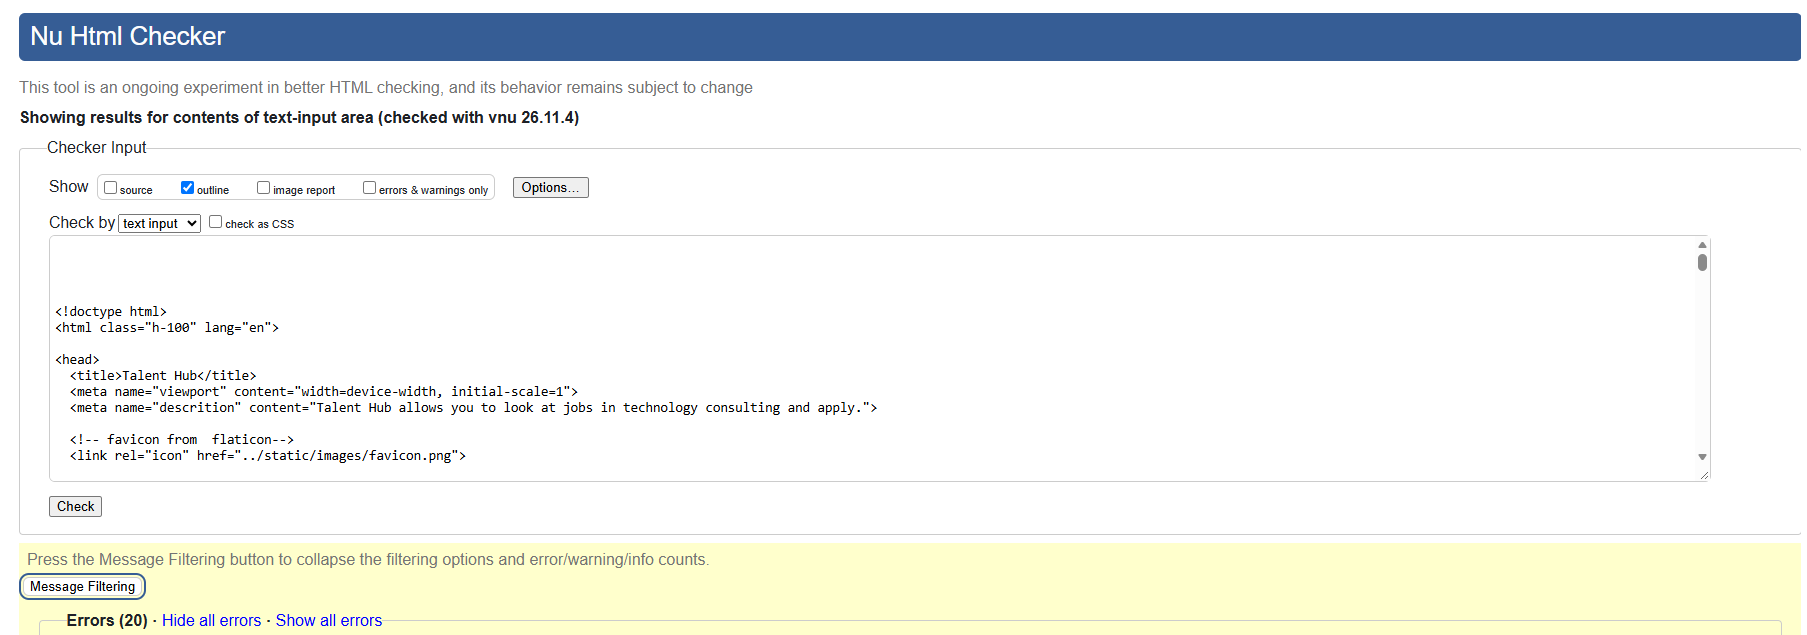
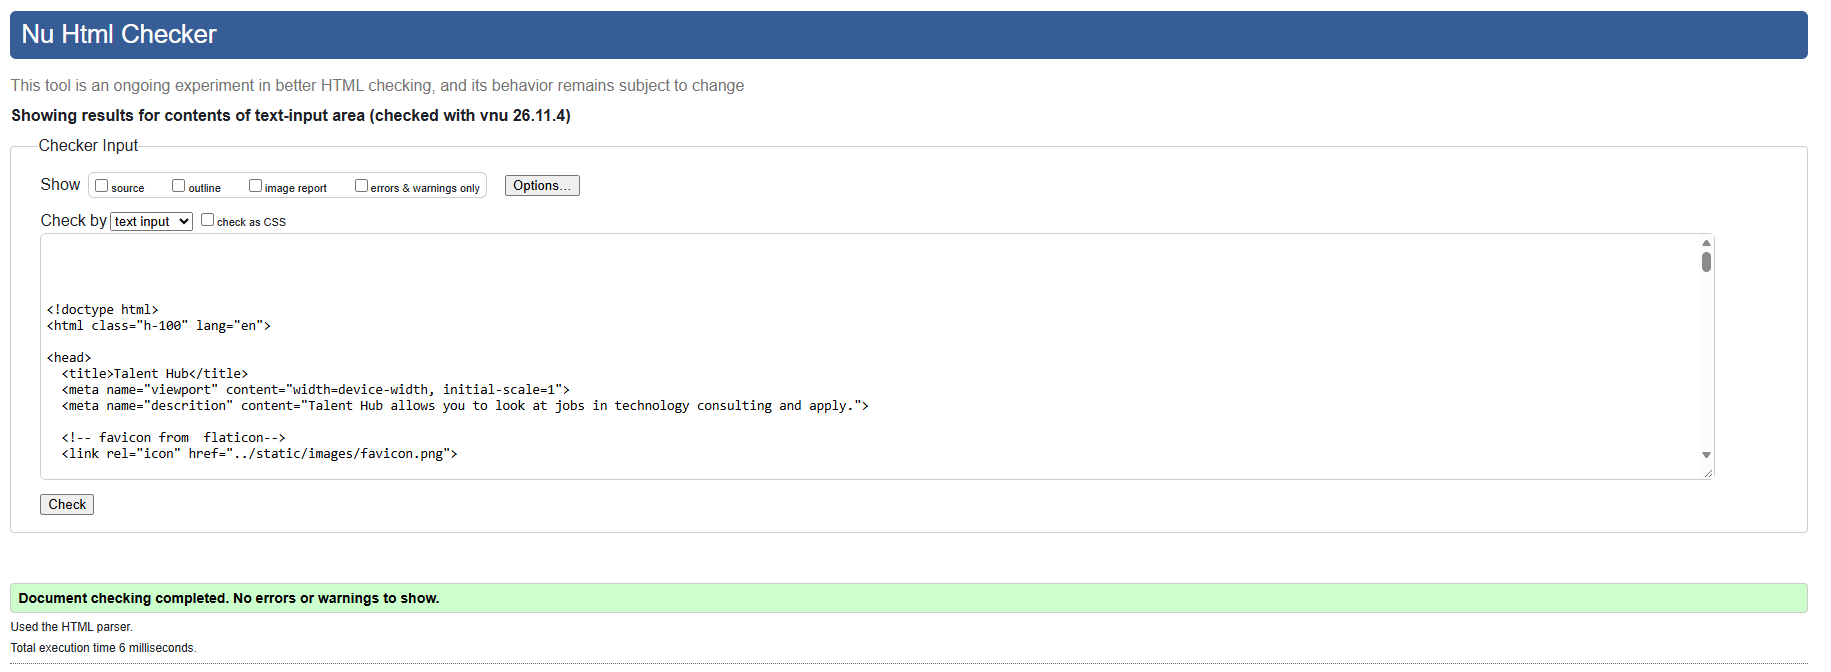
updated html testing

diff --git a/testing.md b/testing.md
@@ -146,9 +146,17 @@ For an applicant dashboard, there are no errors:
 
 <img src="./static/images/html-testing-6.png">
 
-For an edit form, there are no errors:
+For the candidate profile edit form, there are 20 errors due to two summernote fields for skills and experience which are required for rich text in applications:
 
 <img src="./static/images/html-testing-3.png">
+
+For the job edit form, there are 10 errors due to one summernote field for the job description:
+
+<img src="./static/images/html-testing-7.png">
+
+For the company profile edit form, there were no effors:
+
+<img src="./static/images/html-testing-8.png">
 
 ## CSS Testing
 Using the [CSS Validator](https://jigsaw.w3.org/css-validator/), I have no recorded errors and no warnings.
